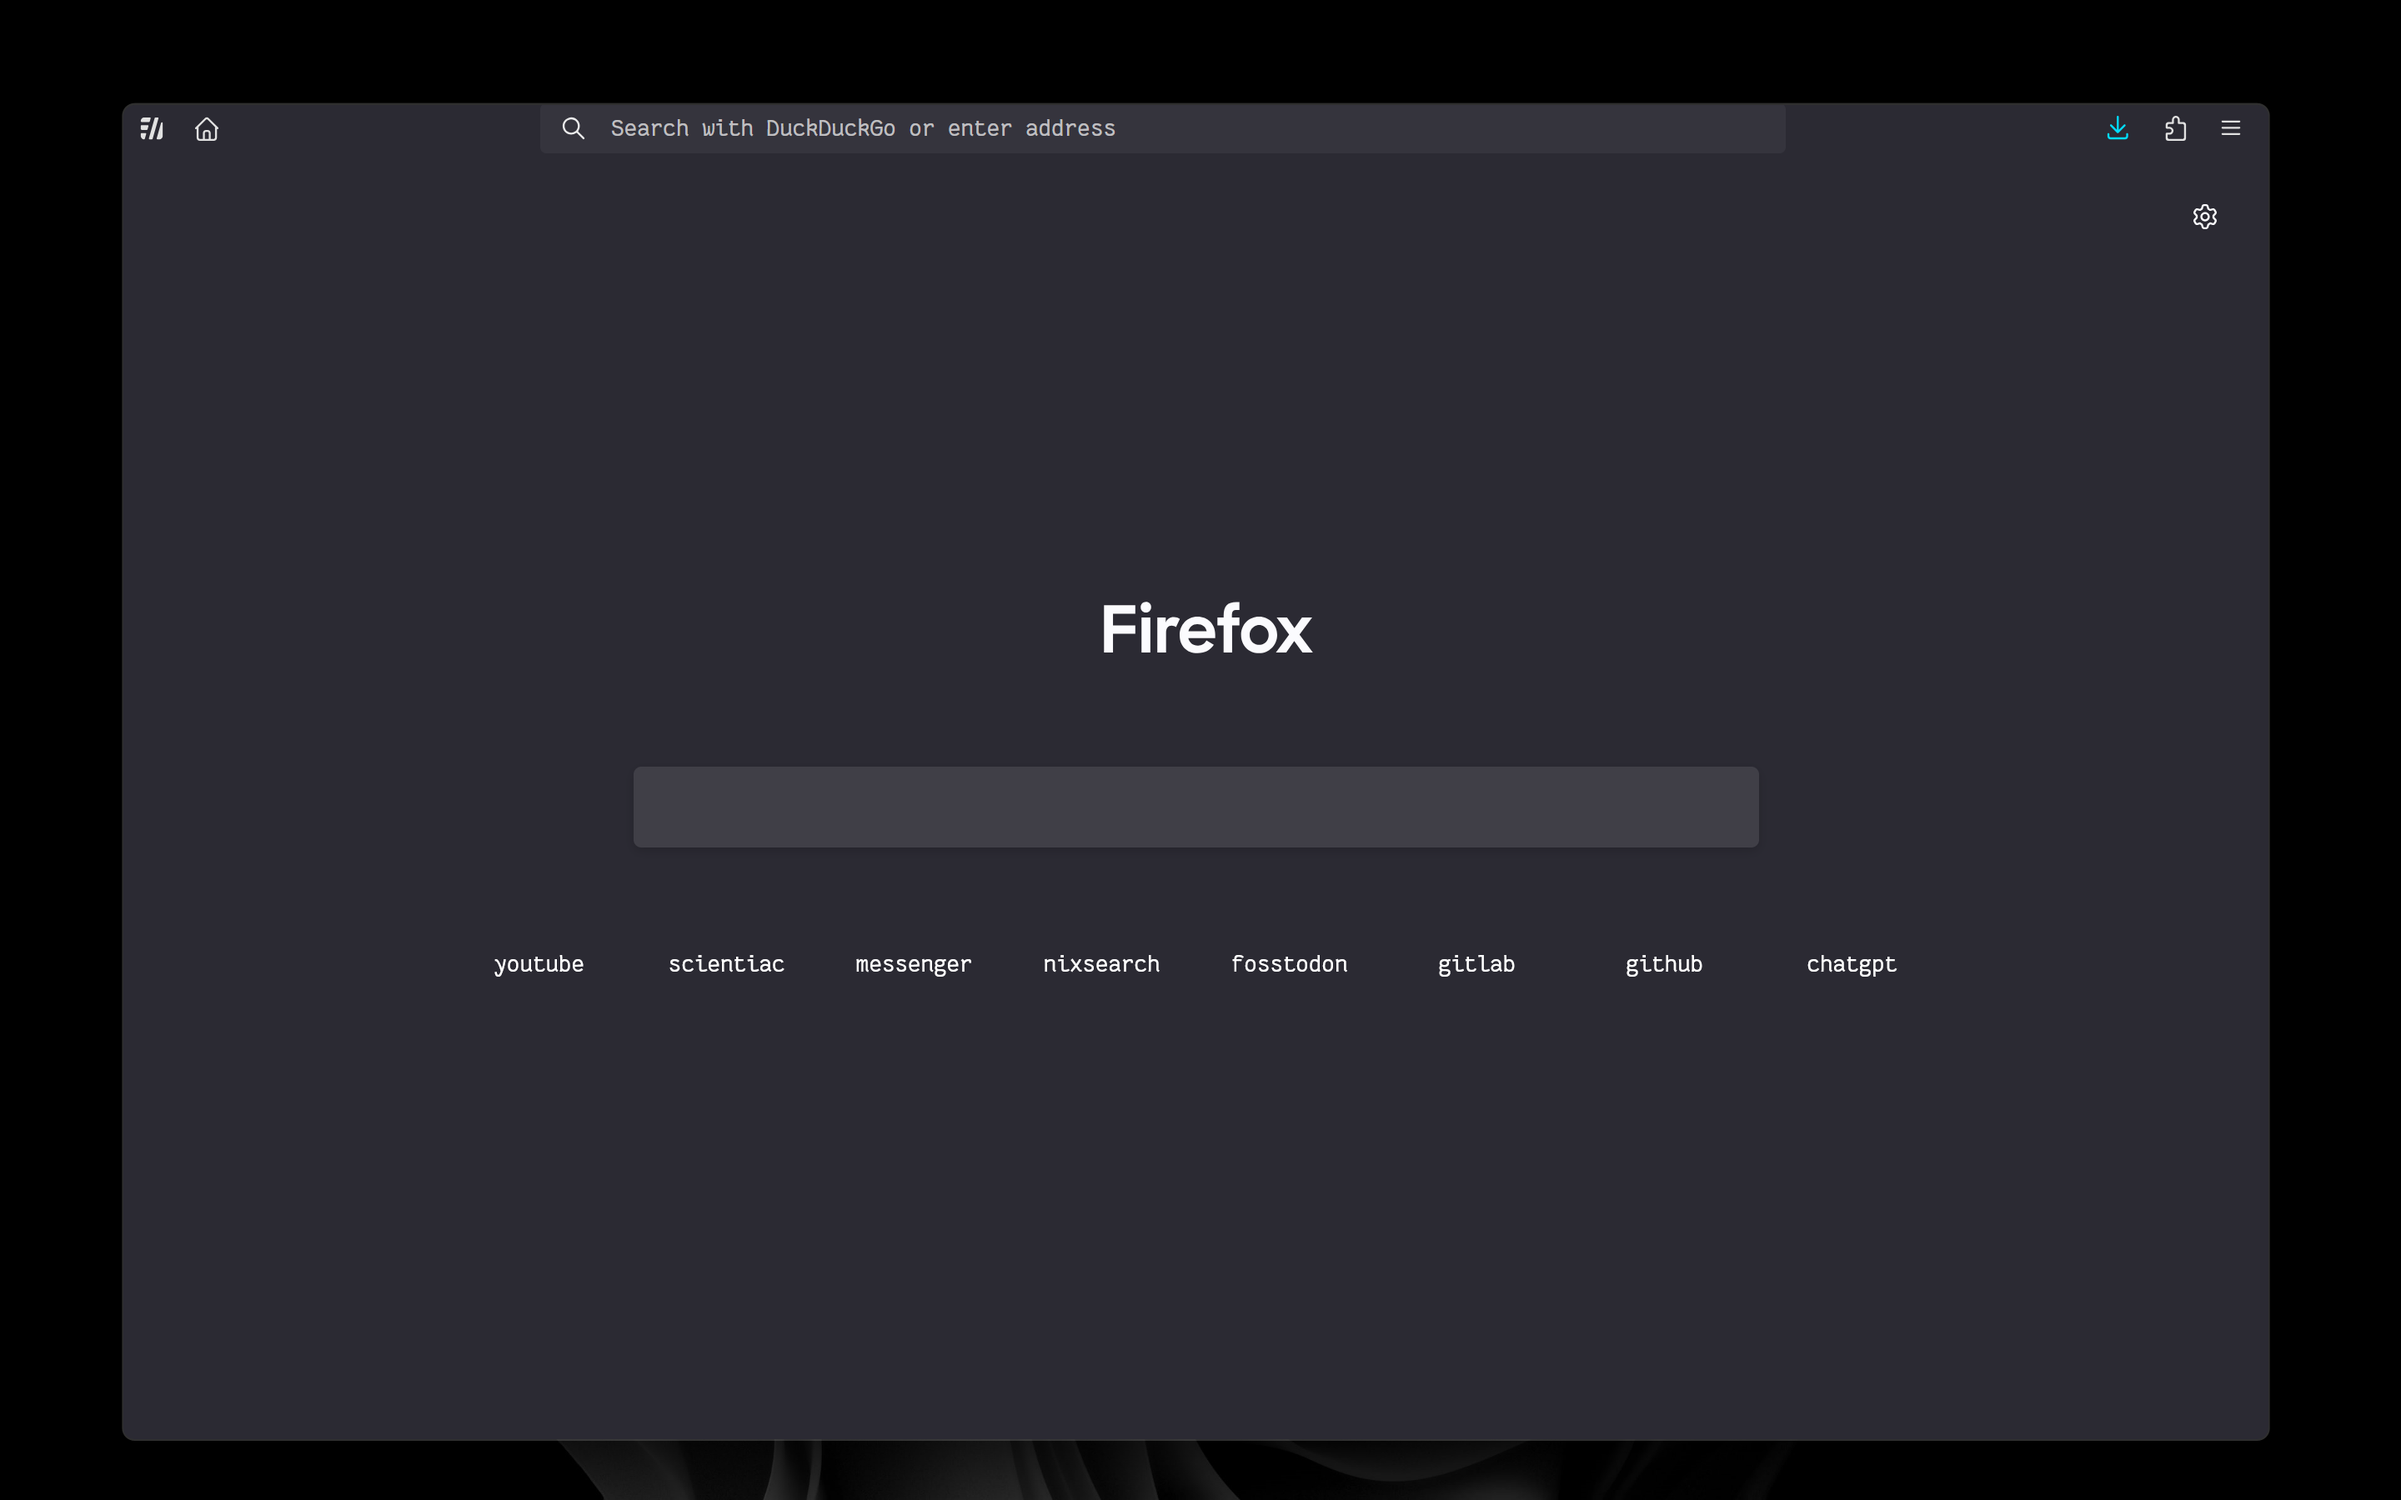
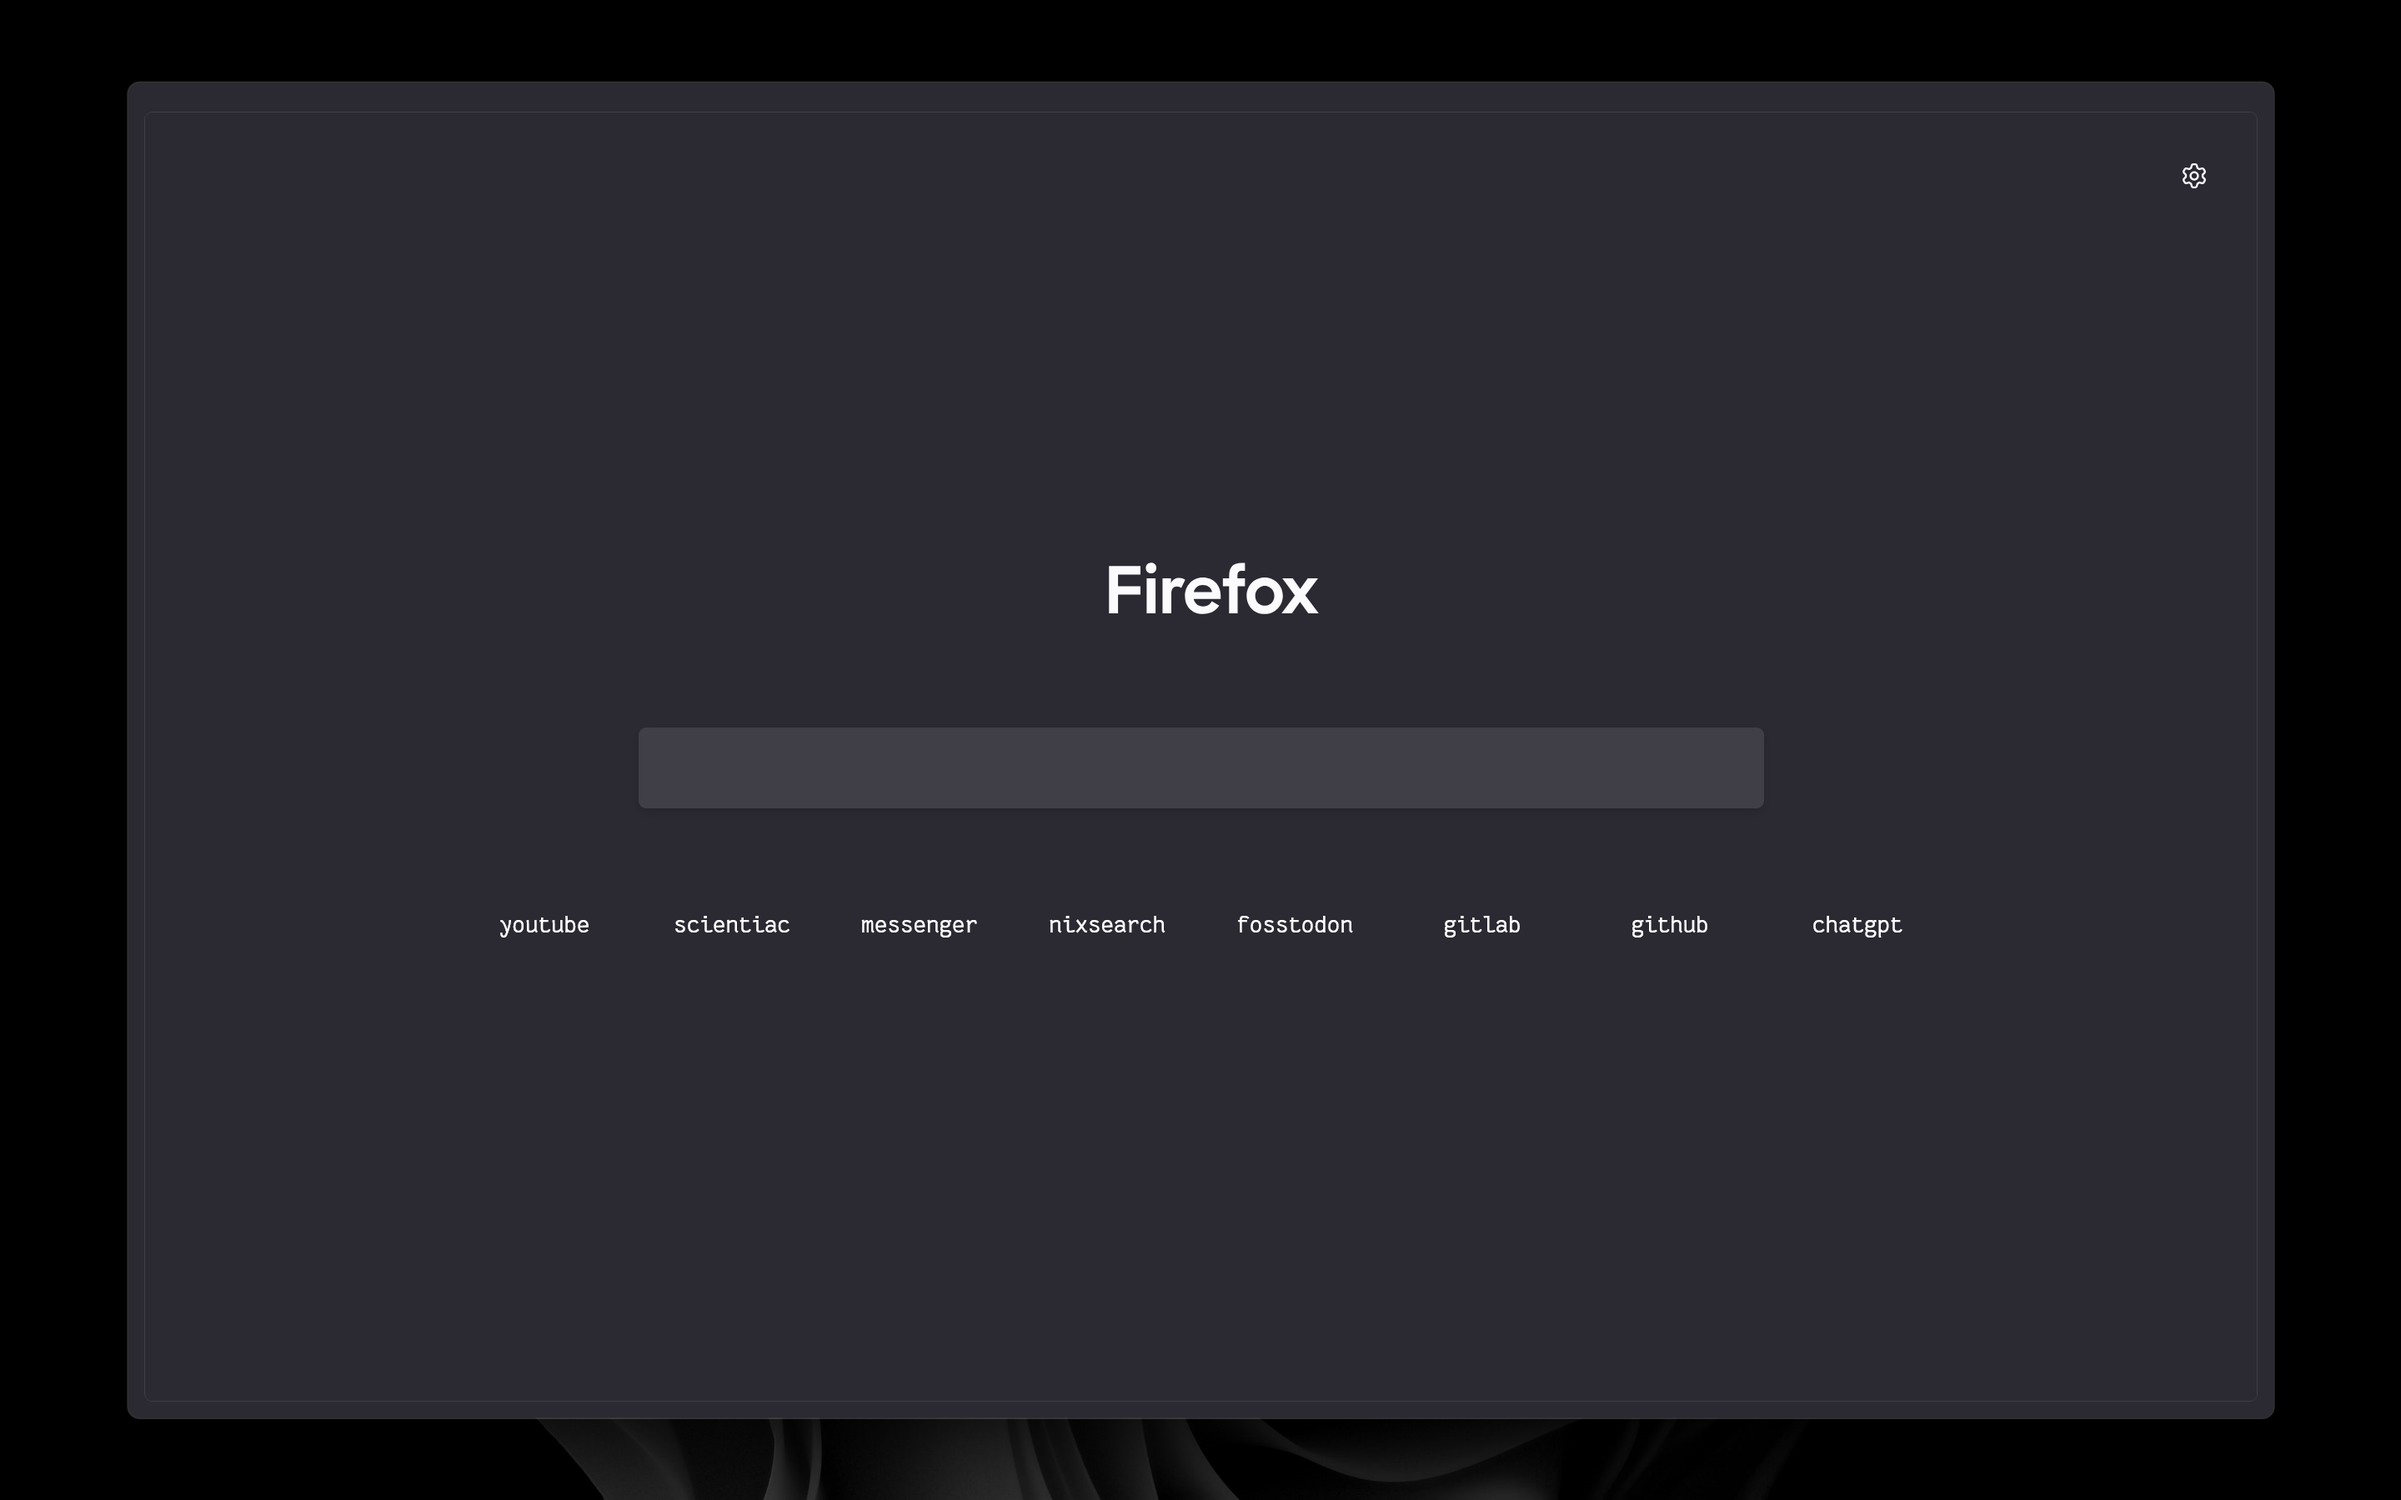
fix!(immersive): readme and images

diff --git a/README.md b/README.md
@@ -1,8 +1,7 @@
 # ❄ scifox
-A Minimalist Firefox userStyle
+An Immersive Firefox userStyle
 
-> ### I have switched to using a more immersive version of this config which is on the [immersive](https://github.com/scientiac/scifox/tree/immersive) branch.
-> You can clone it by: `git clone -b immersive https://github.com/scientiac/scifox`
+> You can clone this branch by: `git clone -b immersive https://github.com/scientiac/scifox`
 
 ## Screenshots
 
@@ -12,8 +11,8 @@ A Minimalist Firefox userStyle
 ![during-usage](images/while-using.png)
 #### Sidebar
 ![sidebar](images/sidebar.png)
-#### Adaptive Color
-![adaptive-colors](images/adaptive-colors.png)
+#### Navbar
+![navbar](images/navbar.png)
 
 ## ⚙ Installation
 
@@ -23,6 +22,10 @@ A Minimalist Firefox userStyle
 
 1. In the searchbar type `about:config`. A dialog will be shown to you. Press the **I accept the risk** button.
 2. Search for **`toolkit.legacyUserProfileCustomizations.stylesheets`**, **`layers.acceleration.force-enabled`**, **`gfx.webrender.all`**, and **`svg.context-properties.content.enabled`**. Change them to **True**
+
+> Set `browser.newtabpage.activity-stream.improvesearch.handoffToAwesomebar` to **false** to use the homepage search bar without jumping to the url bar.
+> Set `browser.startup.preXulSkeletonUI` to **false** to disable skeletonUI rendering during firefox launch.
+
 3. Go to your Firefox profile:
     - If you're on Linux: `$HOME/.mozilla/firefox/XXXXXXX.default-release/`
     - If you're on Windows: `C:\Users\<USERNAME>\AppData\Roaming\Mozilla\Firefox\Profiles\XXXXXXX.default-XXXXXX`
@@ -32,7 +35,14 @@ A Minimalist Firefox userStyle
 6. Make all the customizations you want.
 7. Enjoy!
 
-> I am using [FantasqueSansM Nerd Font](https://www.nerdfonts.com/font-downloads) in this configuration as a preferred font (you might want to download it) but you can change it easily in the 'FONTS' section in `userChrome` and `userContent` css files.
+### Setting your desired font
+1. go to [about:config](about:config) and accept the risk.
+2. Set `font.default.x-western` to `monospace`.
+3. Set `font.name.monospace.x-western` to `<your desired font name>`
+
+> You can get the name of the font you like from `settings > general > fonts` where you can see the name of the fonts in the dropdown, just copy the name of the font you like from there and paste it to the config stated by [3].
+
+> I am using [FantasqueSansM Nerd Font](https://www.nerdfonts.com/font-downloads) in this configuration as my preferred font.
 
 ## 🚀 Usage
 
@@ -56,8 +66,8 @@ This userstyle has a keyboard centered usage:
 
 ### Tips
 
-- In `about:config` set `browser.newtabpage.activity-stream.improvesearch.handoffToAwesomebar` to false to use the homepage search bar without jumping to the url bar.
 - In `Settings > Search > Search Shortcuts` untick everything to get a minimal look in search suggestions.
+- In firefox homepage settings disable everything except **Shortcuts** for a minimal layout.
 
 ## 🎉 Credit
 * The simple design is heavily inspired by [simplefox](https://github.com/migueravila/SimpleFox). Additionally, this repository includes content reproduced or adapted from their userStyle.
